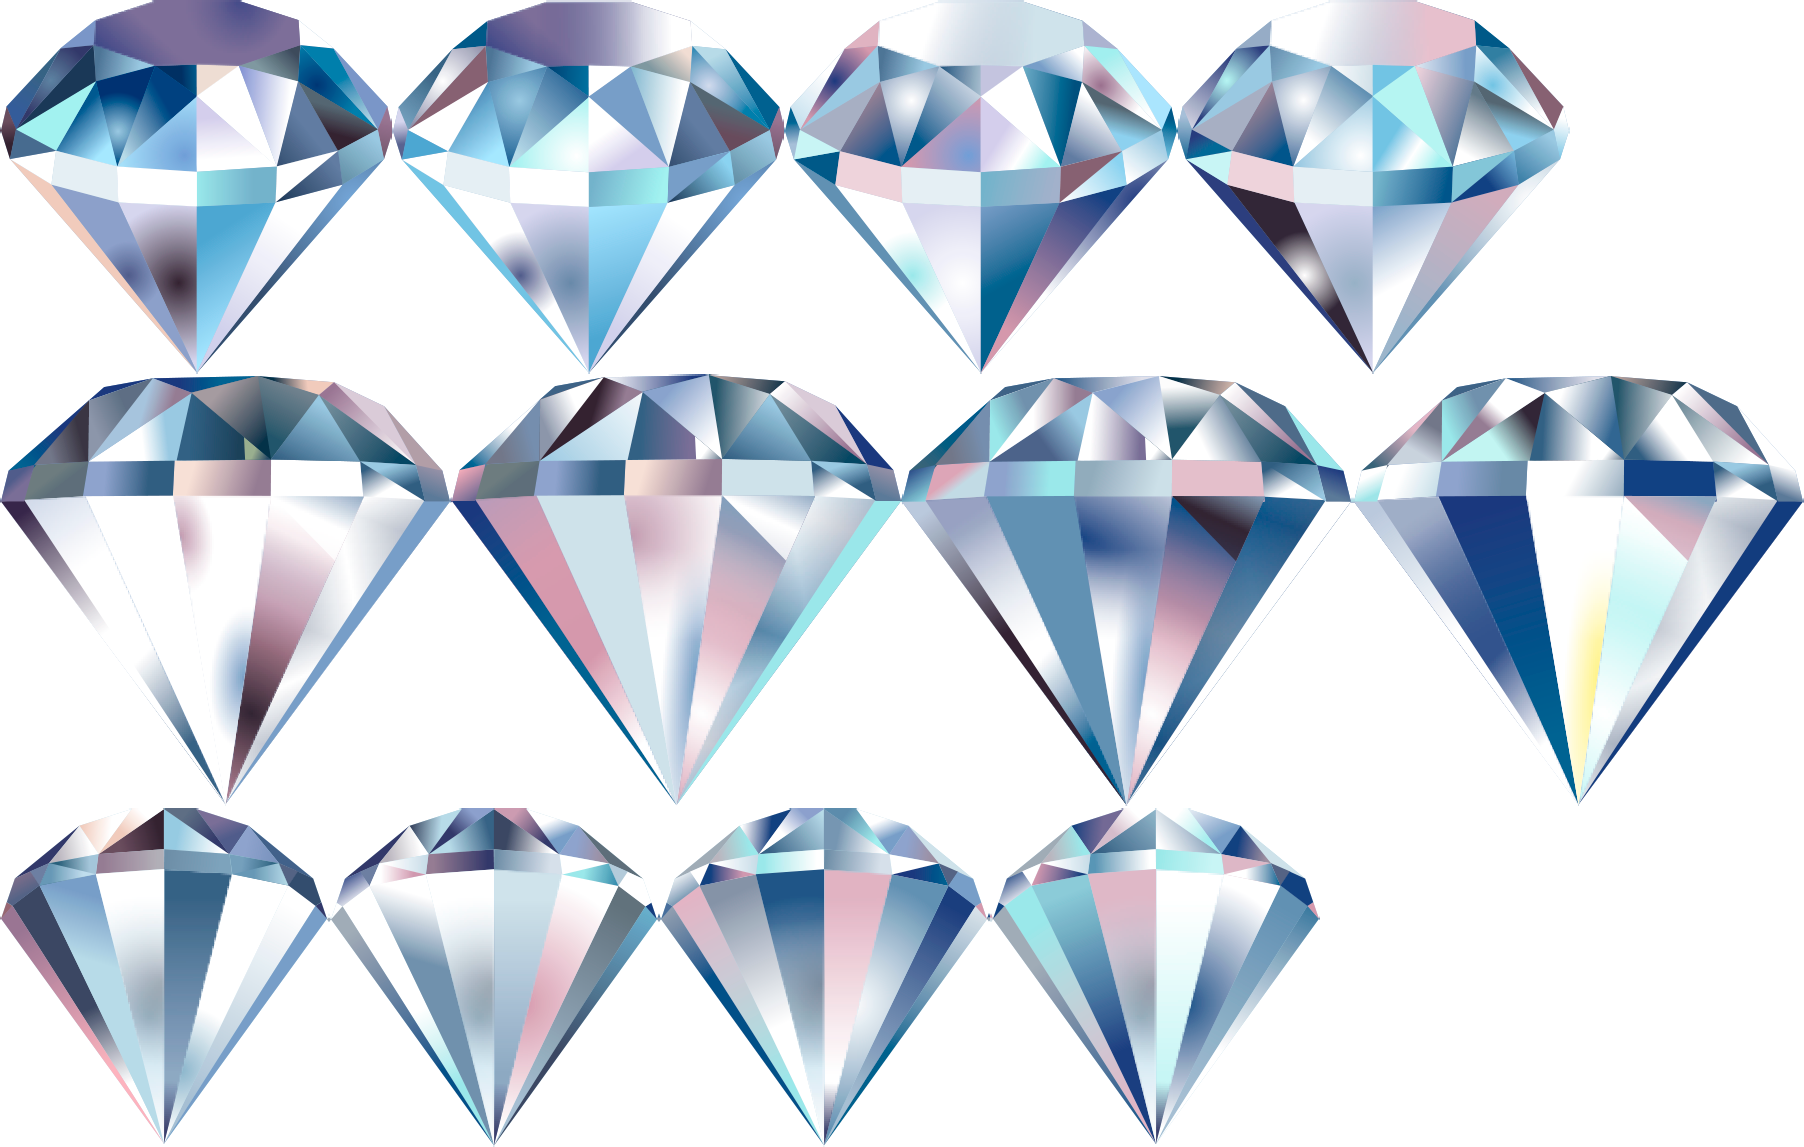
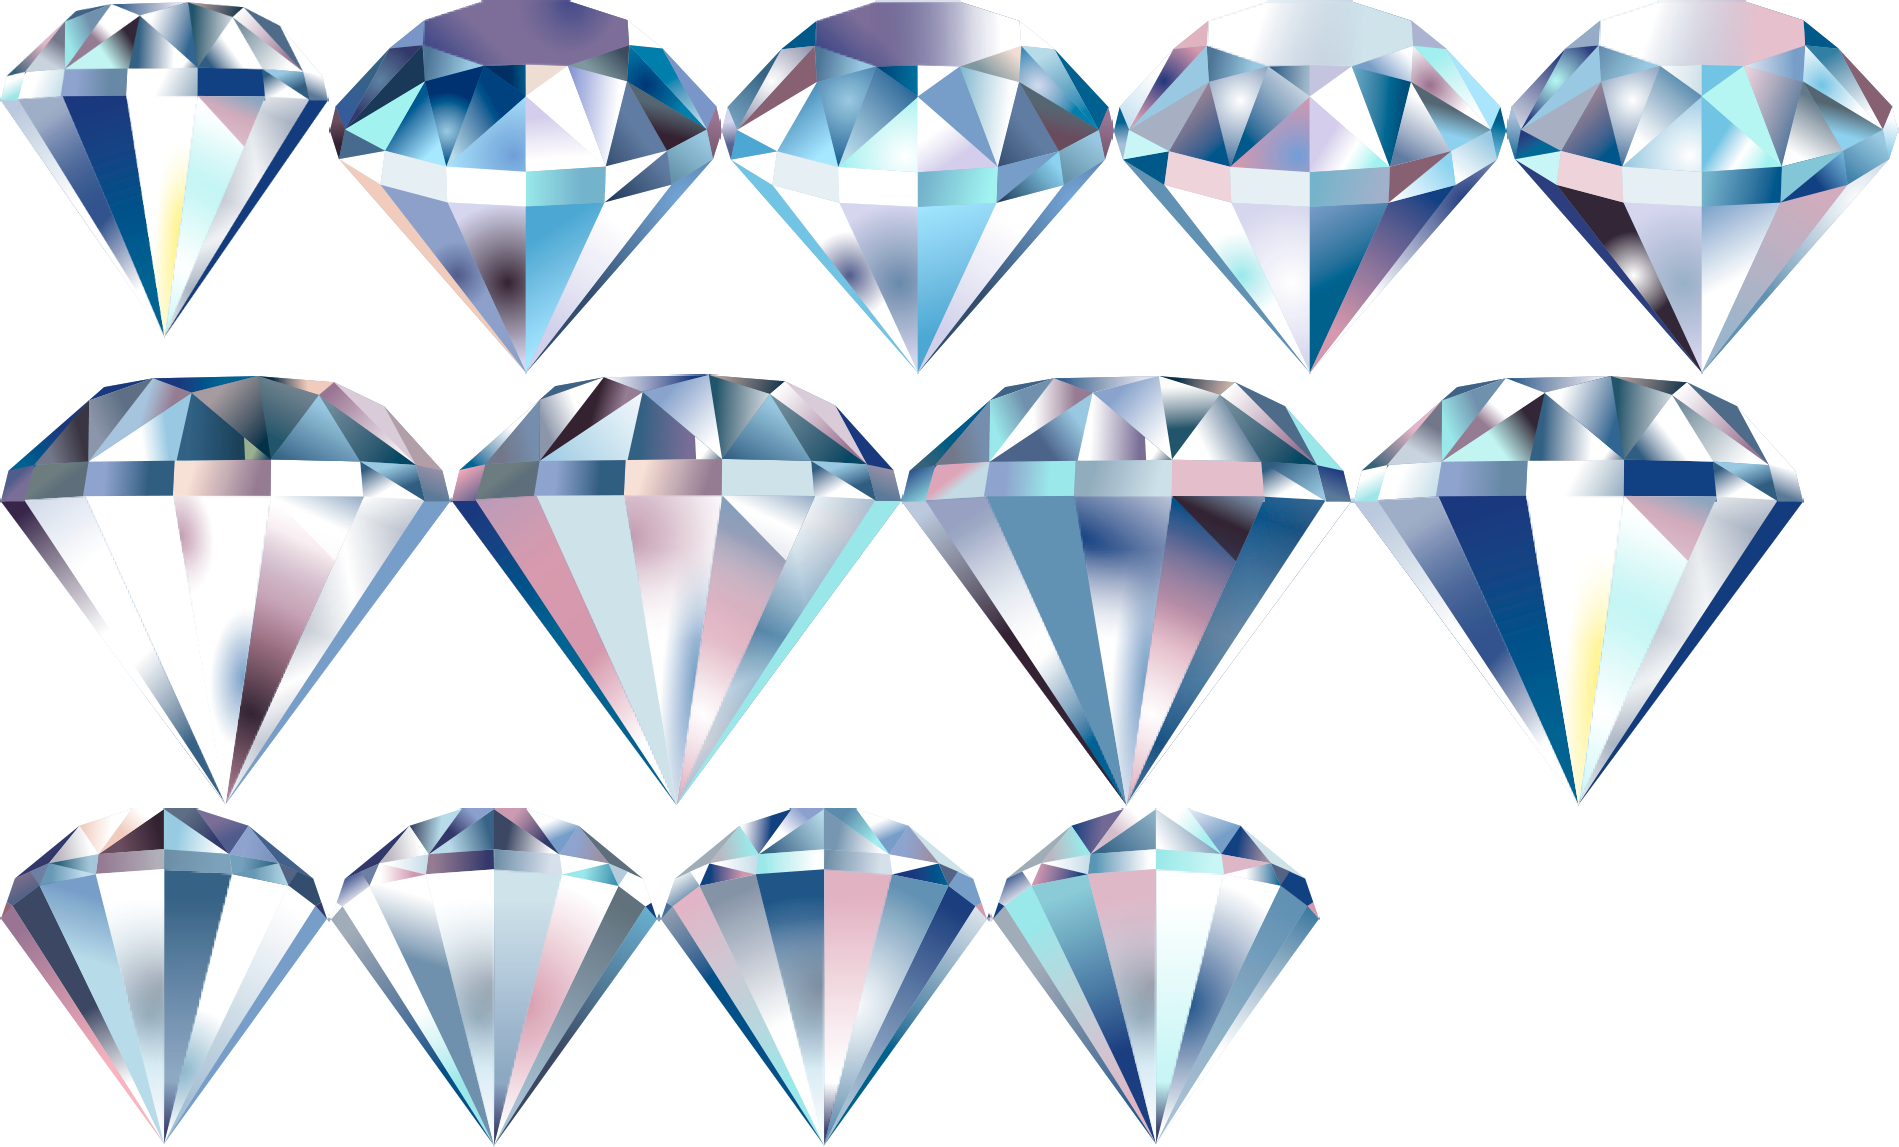
fixLastFrame

diff --git a/SceneMain.js b/SceneMain.js
@@ -105,6 +105,9 @@ class SceneMain extends Phaser.Scene {
             }, {
                 key: 'diamond',
                 frame: '12diamondfinish.png'
+            },{
+                key: 'diamond',
+                frame: '0diamondfinish.png'
             },],
             frameRate: 10,
             repeat: 0
